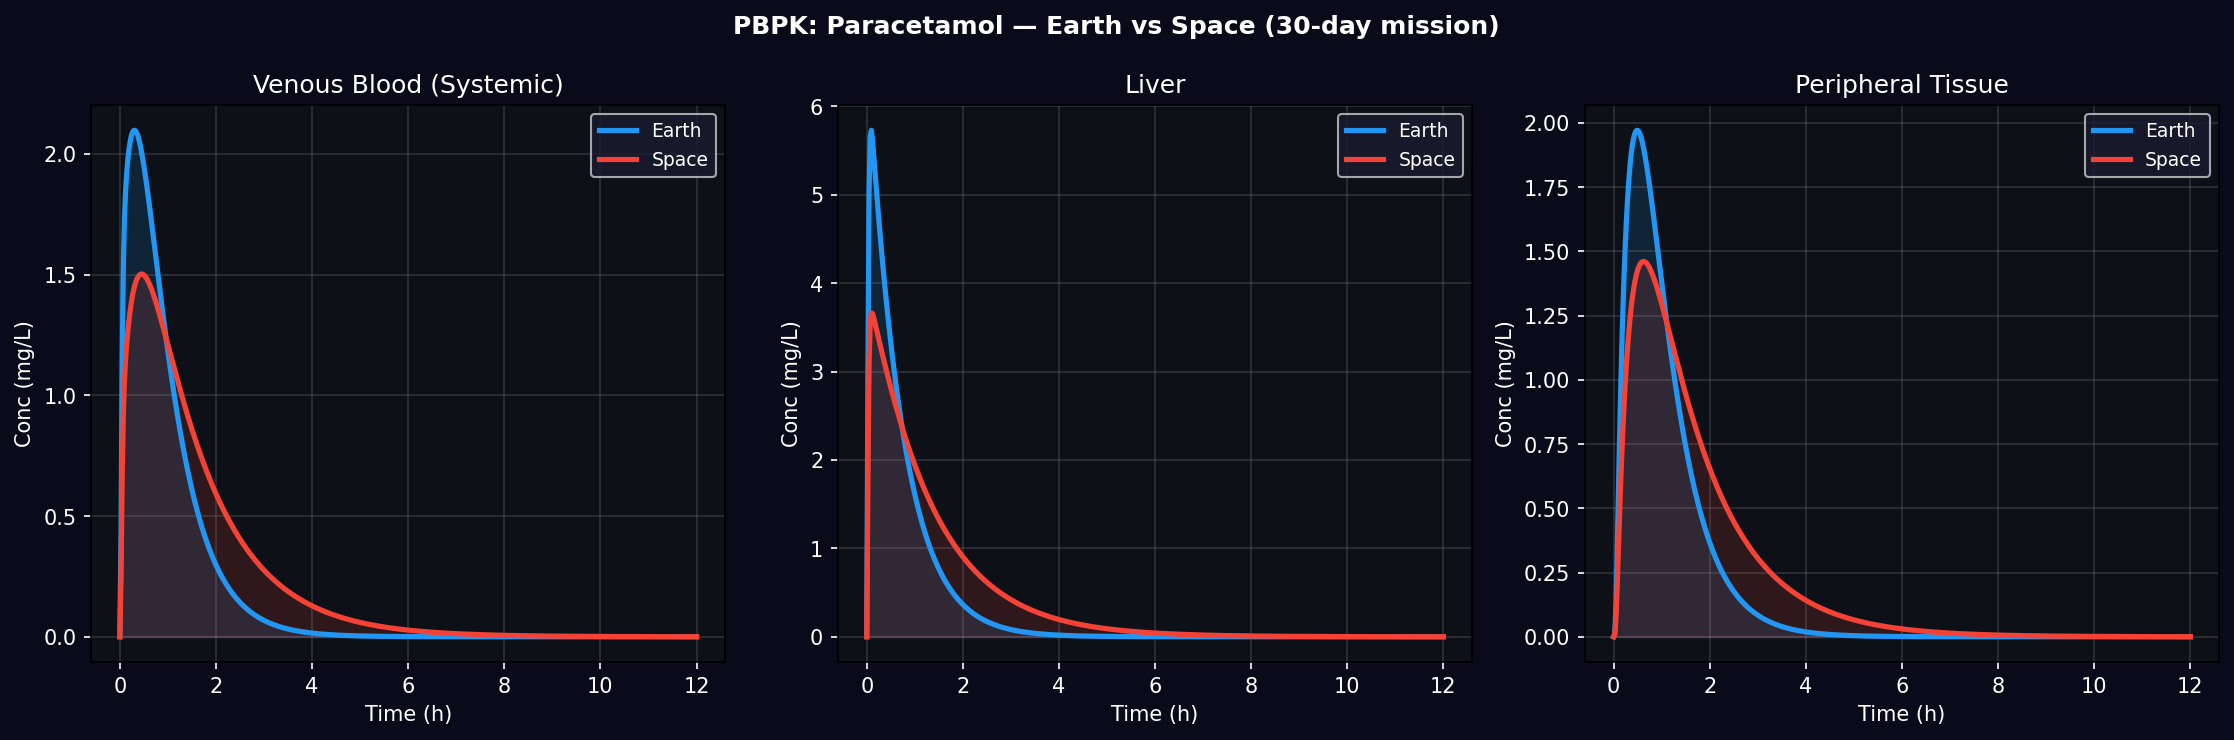
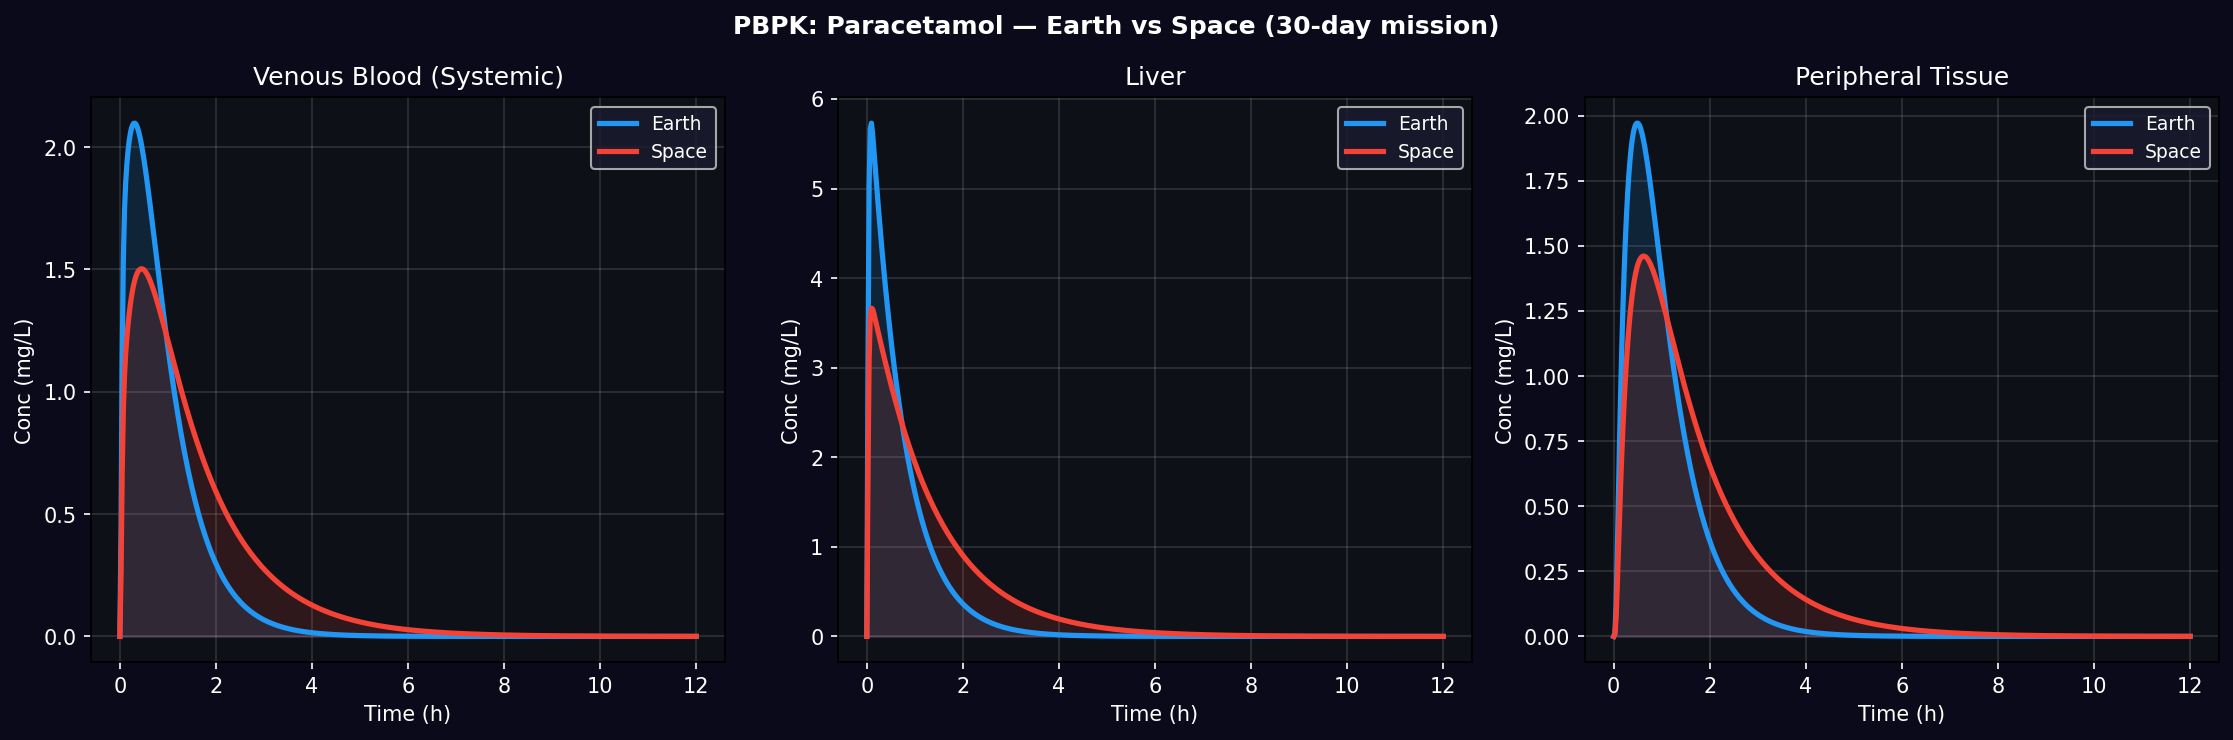
Fix pipeline imports and arviz pin; all 3 layers run

diff --git a/code/pbpk_model.py b/code/pbpk_model.py
@@ -332,9 +332,12 @@ def run_pbpk_analysis(drug_profile, mission_days=30, body_weight=75, verbose=Tru
     }
 
 if __name__ == '__main__':
-    import sys
-    sys.path.insert(0, '/home/claude/spacepk')
-    from pipeline.drug_properties import analyze_drug
+    from pathlib import Path
+    from drug_properties import analyze_drug
+
+    ROOT = Path(__file__).resolve().parent.parent
+    OUT = ROOT / "figures"
+    OUT.mkdir(exist_ok=True)
 
     print("SPACE PK PIPELINE — LAYER 2: PBPK MODEL")
     print("CPT: Pharmacometrics & Systems Pharmacology\n")
@@ -369,6 +372,6 @@ if __name__ == '__main__':
     plt.suptitle('PBPK: Paracetamol — Earth vs Space (30-day mission)',
                  color='white', fontsize=12, fontweight='bold')
     plt.tight_layout()
-    plt.savefig('/home/claude/spacepk/validation/pbpk_layer2.png',
+    plt.savefig(OUT / "pbpk_layer2.png",
                 dpi=150, bbox_inches='tight', facecolor='#0a0a1a')
     print("\n✅ Layer 2 complete — PBPK plot saved")

diff --git a/code/bayesian_popPK.py b/code/bayesian_popPK.py
@@ -230,7 +230,13 @@ def run_bayesian_popPK(drug='Paracetamol', n_draws=500, n_tune=300):
     return results
 
 # ── Plot posteriors ────────────────────────────────────────────────────────────
-def plot_posteriors(results, drug='Paracetamol'):
+def plot_posteriors(results, drug='Paracetamol', out_dir=None):
+    from pathlib import Path
+    if out_dir is None:
+        out_dir = Path(__file__).resolve().parent.parent / "figures"
+    out_dir = Path(out_dir)
+    out_dir.mkdir(exist_ok=True)
+
     params = ['F', 'ka', 'ke', 'Vd']
     units  = ['(fraction)', '(/h)', '(/h)', '(L)']
 
@@ -260,7 +266,7 @@ def plot_posteriors(results, drug='Paracetamol'):
     plt.suptitle(f'Bayesian PopPK Posterior Distributions — {drug}\nEarth vs Space',
                  color='white', fontsize=12, fontweight='bold')
     plt.tight_layout()
-    plt.savefig('/home/claude/spacepk/validation/bayesian_posteriors.png',
+    plt.savefig(out_dir / "bayesian_posteriors.png",
                 dpi=150, bbox_inches='tight', facecolor='#0a0a1a')
     print("  Posterior plot saved")
 